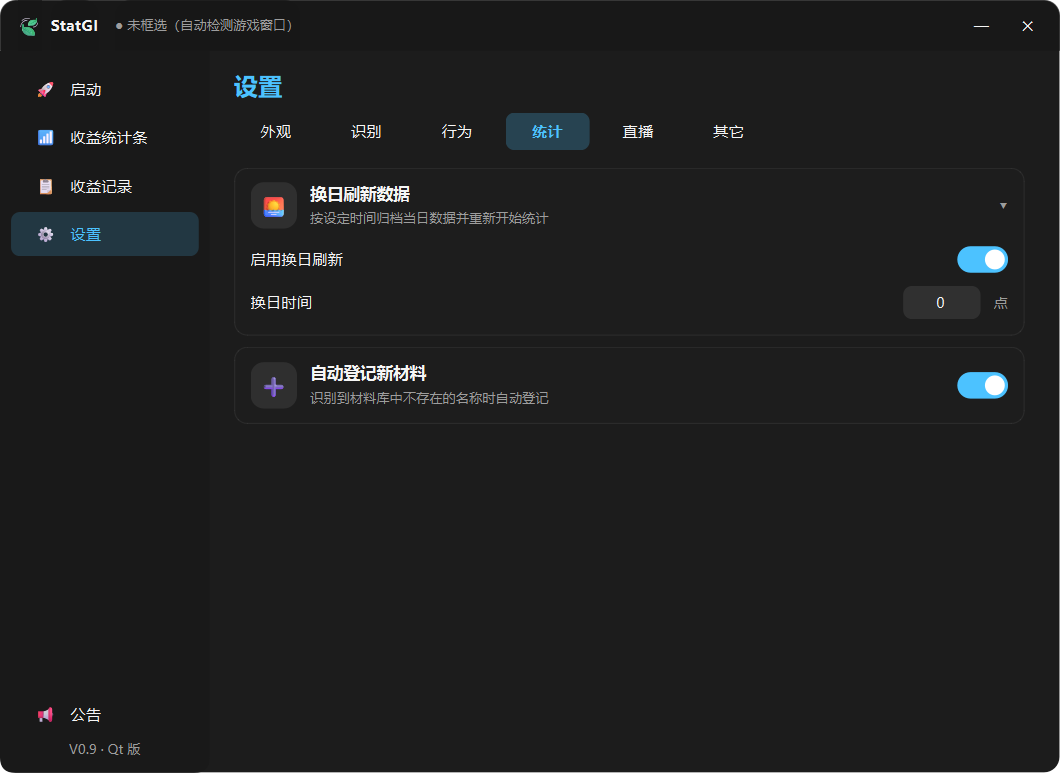
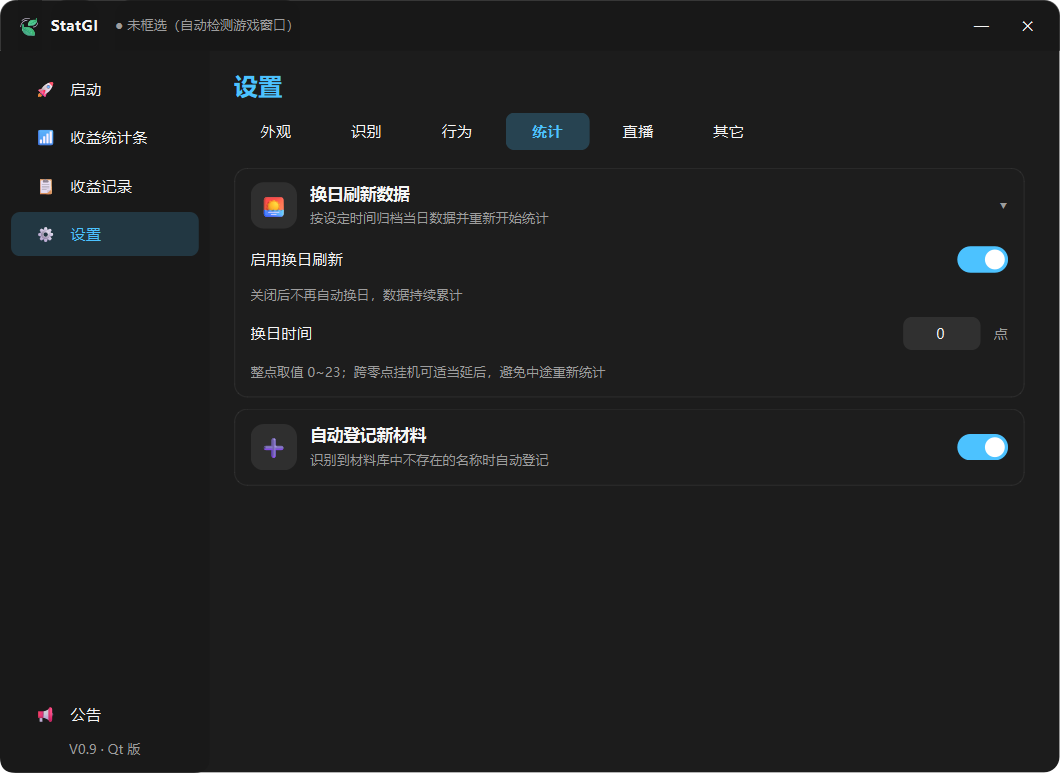
热键收成一个「全局热键」折叠卡片（去掉显示主窗口）、换日两个子项补上说明

diff --git a/statgi_qt/qt_pages.py b/statgi_qt/qt_pages.py
@@ -909,24 +909,48 @@ class PageSettings(BasePage):
         self.close_dd.currentTextChanged.connect(self._on_close_behavior)
         self._row(tb, "✖", "点右上角 ✕ 时", "点击关闭按钮时的行为", self.close_dd)
 
-        # 热键可以有多个动作 —— 每个动作一个按钮。
-        # _hotkey_btns 记着「设置里的键名 -> 按钮」，录制的时候按名字找按钮。
+        # ---- 全局热键（收成一张折叠卡片）----
+        # 每个动作一个按钮，点按钮后按下想用的键即可录制。
+        # _hotkey_btns 记着「设置里的键名 -> 按钮」，录制时按名字找按钮。
         self._hotkey_btns = {}
         self._capturing = None
-        for key, icon, title, desc in (
-                ("hotkey", "⌨", "热键：开始 / 停止监测",
-                 "点按钮后按下想用的键（Esc 取消）"),
-                ("hotkey_bar", "⌨", "热键：显示 / 隐藏统计条",
-                 "再次按下收起；不使用则保持「关闭」"),
-                ("hotkey_home", "⌨", "热键：显示主窗口",
-                 "窗口最小化到托盘后，按此键恢复显示")):
+        hk_body = QWidget()
+        hk_lay = QVBoxLayout(hk_body)
+        hk_lay.setContentsMargins(0, 8, 0, 2)
+        hk_lay.setSpacing(8)
+        for key, title, desc in (
+                ("hotkey", "开始 / 停止监测",
+                 "按下即开始监测；再次按下停止"),
+                ("hotkey_bar", "显示 / 隐藏统计条",
+                 "按下显示统计条；再次按下隐藏")):
             btn = QPushButton(str(s.get(key, "关闭")))
             btn.setFixedSize(140, 32)
             btn.setCursor(Qt.PointingHandCursor)
             btn.setStyleSheet(btn_qss("normal", self.alpha))
             btn.clicked.connect(lambda _=False, k=key: self._start_hotkey_capture(k))
             self._hotkey_btns[key] = btn
-            self._row(tb, icon, title, desc, btn)
+
+            r = QHBoxLayout()
+            c = QVBoxLayout()
+            c.setSpacing(1)
+            t = QLabel(title)
+            t.setStyleSheet(label_qss(T.TEXT, 14))
+            d = QLabel(desc)
+            d.setStyleSheet(label_qss(T.DIM, 12))
+            c.addWidget(t)
+            c.addWidget(d)
+            r.addLayout(c, 1)
+            r.addWidget(btn)
+            hk_lay.addLayout(r)
+
+        hk_tip = QLabel("点击右侧按钮后按下目标按键即可设置，Esc 取消；不使用则保持「关闭」")
+        hk_tip.setStyleSheet(label_qss(T.DIM, 12))
+        hk_lay.addWidget(hk_tip)
+
+        self.hotkey_acc = Accordion(self._inner[tb], "⌨", "全局热键",
+                                    "全局生效，游戏内也可触发",
+                                    hk_body, alpha=self.alpha)
+        self._lay[tb].insertWidget(self._lay[tb].count() - 1, self.hotkey_acc)
 
     # ================= 统计 =================
     def _build_stats(self, s):
@@ -949,6 +973,9 @@ class PageSettings(BasePage):
         self.ro_switch.toggled.connect(self._on_rollover_enabled)
         r1.addWidget(self.ro_switch)
         bl.addLayout(r1)
+        e1 = QLabel("关闭后不再自动换日，数据持续累计")
+        e1.setStyleSheet(label_qss(T.DIM, 12))
+        bl.addWidget(e1)
 
         r2 = QHBoxLayout()
         t2 = QLabel("换日时间")
@@ -965,6 +992,9 @@ class PageSettings(BasePage):
         lb.setStyleSheet(label_qss(T.DIM, 13))
         r2.addWidget(lb)
         bl.addLayout(r2)
+        e2 = QLabel("整点取值 0~23；跨零点挂机可适当延后，避免中途重新统计")
+        e2.setStyleSheet(label_qss(T.DIM, 12))
+        bl.addWidget(e2)
 
         self.ro_acc = Accordion(self._inner[tb], "🌅", "换日刷新数据",
                                 "按设定时间归档当日数据并重新开始统计",

diff --git a/statgi_qt/qt_window.py b/statgi_qt/qt_window.py
@@ -310,11 +310,10 @@ class MainWindow(QWidget):
             if not icon.isNull():
                 self.setWindowIcon(icon)     # 任务栏 / Alt+Tab 用这个
             self.tray = Tray(self, ico, icon)
-            # 全局热键可以有多个动作，每个动作一条设置（都默认「关闭」）
+            # 全局热键：两个动作，各一条设置（都默认「关闭」）
             self.hotkey = HotkeyManager(self, [
                 ("hotkey", self.state.toggle),           # 开始 / 停止监测
                 ("hotkey_bar", self.toggle_stat_bar),    # 显示 / 隐藏统计条
-                ("hotkey_home", self.hotkey_show_home),  # 把主窗口叫回来
             ])
         except Exception:
             log_exc("qt_window 托盘/热键")
@@ -651,15 +650,6 @@ class MainWindow(QWidget):
                 self.open_stat_bar()
         except Exception:
             log_exc("qt_window 切换统计条")
-
-    def hotkey_show_home(self):
-        """热键用：把主窗口叫回来（从托盘/最小化状态恢复并置顶）"""
-        try:
-            self.showNormal()
-            self.raise_()
-            self.activateWindow()
-        except Exception:
-            log_exc("qt_window 显示主窗口")
 
     def open_icon_manager(self):
         """图标管理：只能开一个，已经开着就拎到前面来"""

diff --git a/config_manager.py b/config_manager.py
@@ -70,7 +70,6 @@ DEFAULT_SETTINGS = {
     "obs_api_enabled": True,         # 直播数据接口总开关（OBS 那个，改了立刻生效）
     "hotkey": "关闭",                # 全局热键：开始/停止监测
     "hotkey_bar": "关闭",            # 全局热键：显示/隐藏统计条
-    "hotkey_home": "关闭",           # 全局热键：把主窗口叫回来
     "update_channel": "auto",        # 检测更新走哪个渠道：auto / gitee / github
 }
 
